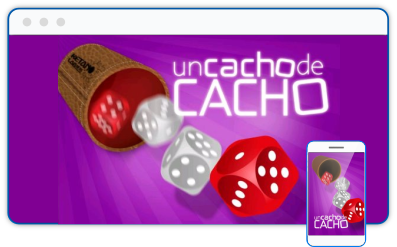
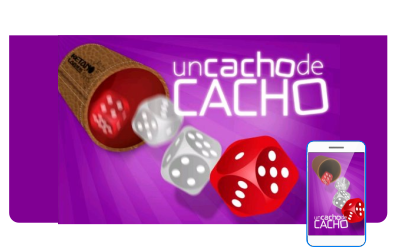
AlexQuijote. Commit 41. Carrusél terminado.

Changed region(s): [[0.0, 0.0, 0.9975, 0.9352]]

diff --git a/src/app/Components/experiencia/experiencia.component.html b/src/app/Components/experiencia/experiencia.component.html
@@ -13,16 +13,16 @@
             <!-- The slideshow/carousel -->
             <div class="carousel-inner">
               <!-- Capa Pc -->
-              <img src="assets/img/pc.png">
-              <div class="carousel-item active tamaño">
+              <img class="carouselpc" src="assets/img/pc.png">
+              <div class="carousel-item active tamaño posicion0">
                 <h3 class="h3centrar">Banco Bisa</h3>
-                <a href="https://www.bisa.com/" target="_blank"><img src="assets/img/carouselbancobisa.png" alt="Banco Bisa" class="d-block"></a>
+                <a href="https://www.bisa.com/" target="_blank"><img src="assets/img/carouselbancobisa.png" alt="Banco Bisa" class="d-block carouselbancobisa"></a>
               </div>
-              <div class="carousel-item tamaño">
-                <h3 class="h3centrar">Boliviana Ciacruz</h3>
+              <div class="carousel-item tamaño posicion1">
+                <h3 class="h3bolivianacentrar">Boliviana Ciacruz</h3>
                 <a href="https://www.lbc.bo/" target="_blank"><img src="assets/img/carouselboliviana.png" alt="Boliviana Ciacruz" class="d-block"></a>
               </div>
-              <div class="carousel-item tamaño">
+              <div class="carousel-item tamaño posicion2">
                 <h3 class="h3centrar">Cacho de Cacho</h3>
                 <a href="https://play.google.com/store/apps/details?id=viny.soltux" target="_blank"><img src="assets/img/cacho.png" alt="Cacho de Cacho" class="d-block"></a>
               </div>
@@ -37,18 +37,17 @@
             <div class="carousel-inner">
               <!-- Capa Pc -->
               <img src="assets/img/pc.png">
-              <div class="carousel-item active certix">
+              <div class="carousel-item active posicion3">
                 <h3 class="h3certix">Certix</h3>
-                <img class="pc" src="/assets/img/pc.png" alt="">
-                <a href="https://certix.me" target="_blank"><img src="assets/img/certix.png" alt="Certix" class="d-block certiximg"></a>
+                <a href="https://certix.me" target="_blank"><img src="assets/img/certix.png" alt="Certix" class="d-block"></a>
               </div>
-              <div class="carousel-item tamaño">
-                <h3 class="h3centrar">Ecotambo</h3>
+              <div class="carousel-item posicion4">
+                <h3 class="h3ecotambo">Ecotambo</h3>
                 <img src="assets/img/ecotambo.png" alt="Ecotambo" class="d-block">
               </div>
-              <div class="carousel-item tamaño">
-                <h3 class="h3centrar">Tupac Katari</h3>
-                <img src="assets/img/katari.png" alt="Tupac Katari" class="d-block">
+              <div class="carousel-item posicion5">
+                <h3 class="h3tupac">Tupac Katari</h3>
+                <img src="assets/img/tupac.png" alt="Tupac Katari" class="d-block">
               </div>
             </div>
           </div>
@@ -61,15 +60,13 @@
             <div class="carousel-inner lugar">
               <!-- Capa Pc -->
               <img src="assets/img/pc.png">
-              <div class="carousel-item active tamaño">
+              <div class="carousel-item active posicion6">
+                <a href="https://play.google.com/store/apps/details?id=com.ketanolab.nusimi" target="_blank"><img src="assets/img/nusimi.png" alt="Nusimi" class="d-block"></a>
                 <h3 class="h3nusimi">NuSimi</h3>
-                <img class="pc" src="/assets/img/pc.png" alt="">
-                <a href="https://play.google.com/store/apps/details?id=com.ketanolab.nusimi" target="_blank"><img src="assets/img/nusimi.png" alt="Nusimi" class="d-block nusimi"></a>
               </div>
-              <div class="carousel-item tamaño">
-                <h3 class="h3nusimi">San Francisco</h3>
-                <img class="pc" src="/assets/img/pc.png" alt="">
-                <a href="https://play.google.com/store/apps/details?id=com.ketanolab.nusimi" target="_blank"><img src="assets/img/sanfrancisco.png" alt="San Francisco." class="d-block sanfrancisco"></a>
+              <div class="carousel-item posicion7">
+                <a href="https://play.google.com/store/apps/details?id=com.ketanolab.nusimi" target="_blank"><img src="assets/img/francisco.png" alt="San Francisco." class="d-block"></a>
+                <h3 class="h3francisco">San Francisco</h3>
               </div>
             </div>
           </div>

diff --git a/src/app/Components/experiencia/experiencia.component.css b/src/app/Components/experiencia/experiencia.component.css
@@ -177,18 +177,6 @@
   left: 2.7rem;
 }
 
-.certix {
-  width: 400px;
-  position: relative;
-  left: 3rem;
-}
-
-.certiximg {
-  position: relative;
-  left: -0.5rem;
-  width: 400px;
-}
-
 .pc {
   position: relative;
   top: 1.3rem;
@@ -200,35 +188,99 @@
 
 .h3centrar {
   position: relative;
+  top: 16rem;
   left: 1rem;
 }
 
+.h3bolivianacentrar {
+  position: relative;
+  top: 14rem;
+  left: 1rem;     
+}
+/* Configuración del título h3 que acompaña a la imagen de Certix.*/
 .h3certix {
   position: relative;
-  top: 1.5rem;
+  top: 13.5rem;
+  left: 1rem;
+}
+
+/* Configuración del título h3 que acompaña a la imagen de Ecotambo.*/
+.h3ecotambo {
+  position: relative;
+  top: 15.8rem;
+  left: 1rem;
+}
+
+/* Configuración del título h3 que acompaña a la imagen de Tupac.*/
+.h3tupac {
+  position: relative;
+  top: 15rem;
   left: 1rem;
 }
 
 .h3nusimi {
   position: relative;
-  top: 1.5rem;
+  top: -2rem;
   left: 1rem;
 }
 
-.nusimi {
+.h3francisco {
   position: relative;
-  top: 1.3rem;
-  left: -0.2;
-  width: 377px;
-}
-
-.sanfrancisco {
-  position: relative;
-  left: -0.2rem;
-  width: 394px;
+  top: -3rem;
+  left: 1rem;
 }
 
 .lugar {
   position: relative;
   top: -1rem;
+}
+
+.posicion0 {
+  margin-top: -17.5rem;
+  margin-left: -3.2rem;
+}
+
+.posicion1 {
+  margin-top: -15.4rem;
+  margin-left: -3.2rem;
+}
+
+.posicion2 {
+  margin-top: -17.5rem;
+  margin-left: -3.2rem;
+}
+
+/* Posición y tamaño de la imagen de Certix en el carrusel */
+.posicion3 {
+  width: 23.7rem;
+  margin-top: -13.3rem;
+  margin-left: 0.2rem;
+}
+
+/* Posición y tamaño de la imagen de Ecotambo en el carrusel */
+.posicion4 {
+  width: 24.8rem;
+  margin-top: -15.6rem;
+  margin-left: -0.4rem;
+}
+
+/* Posición y tamaño de la imagen de Tupac Katari en el carrusel */
+.posicion5 {
+  width: 24.8rem;
+  margin-top: -15rem;
+  margin-left: 0.2rem;
+}
+
+/* Posición y tamaño de la imagen de Nusimi en el carrusel */
+.posicion6 {
+  width: 56rem;
+  margin-top: -12rem;
+  margin-left: -0.1rem;
+}
+
+/* Posición y tamaño de la imagen de San Francisco en el carrusel */
+.posicion7 {
+  width: 56rem;
+  margin-top: -12.1rem;
+  margin-left: -0.4rem;
 }

diff --git a/src/index.html b/src/index.html
@@ -2,7 +2,7 @@
 <html lang="en">
 <head>
   <meta charset="utf-8">
-  <title>PaginaWeb</title>
+  <title>Ketanolab SRL</title>
   <base href="/">
   <meta name="viewport" content="width=device-width, initial-scale=1">
   <link rel="icon" type="image/x-icon" href="favicon.ico">
